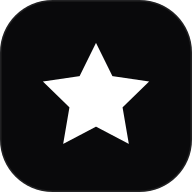
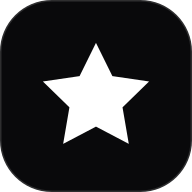
feat: refactor og-image generation and serving
Update Open Graph banner generation to use specific density and dimensions. Switch to `app.all` to ensure the banner is served correctly across multiple route patterns, and add a local file existence check for the homepage fallback.

diff --git a/server.ts b/server.ts
@@ -12993,8 +12993,9 @@ const isPlaceCard = type === 'place';
         </g>
       </svg>`;
 
-      await sharp(Buffer.from(defaultSvg))
-        .png({ quality: 100, compressionLevel: 6 })
+      await sharp(Buffer.from(defaultSvg), { density: 150 })
+        .resize(1200, 630)
+        .png({ palette: false, quality: 100, compressionLevel: 6, force: true })
         .toFile(path.join(process.cwd(), 'public', 'og-banner.png'));
       
       console.log("Successfully generated icon-only /public/og-banner.png");
@@ -13522,14 +13523,21 @@ app.get('/api/og-preview-v2', async (req, res) => {
   res.send(svg);
 });
 
-    app.get(['/api/og', '/api/og.png', '/api/og-image', '/api/og-image.png', '/og-banner.png', '/og-image.png'], async (req: any, res: any) => {
+    app.all(['/api/og', '/api/og.png', '/api/og-image', '/api/og-image.png', '/og-banner.png', '/og-image.png'], async (req: any, res: any) => {
     try {
+      const ogBannerPath = path.join(process.cwd(), 'public', 'og-banner.png');
       let type = (req.query.type as string) || "";
       if (!type) {
         if (req.query.id || req.query.reviewId) type = "video";
         else if (req.query.domain || req.query.logoUrl || req.query.website) type = "place";
         else if (req.query.avatarUrl || req.query.handle) type = "creator";
         else type = "homepage";
+      }
+
+      if (type === 'homepage' && fs.existsSync(ogBannerPath)) {
+        res.setHeader("Content-Type", "image/png");
+        res.setHeader("Cache-Control", "public, max-age=31536000, immutable");
+        return res.sendFile(ogBannerPath);
       }
 
       if (type === 'video') {
@@ -13966,8 +13974,19 @@ app.get('/api/og-preview-v2', async (req, res) => {
           </g>
         </g>
       </svg>`;
-      const fallbackBuf = await sharp(Buffer.from(defaultSvg)).png().toBuffer();
+      if (fs.existsSync(ogBannerPath)) {
+        res.setHeader("Content-Type", "image/png");
+        res.setHeader("Cache-Control", "public, max-age=31536000, immutable");
+        return res.sendFile(ogBannerPath);
+      }
+
+      const fallbackBuf = await sharp(Buffer.from(defaultSvg), { density: 150 })
+        .resize(1200, 630)
+        .png({ palette: false, quality: 100, compressionLevel: 6, force: true })
+        .toBuffer();
+
       res.setHeader("Content-Type", "image/png");
+      res.setHeader("Content-Length", fallbackBuf.length);
       res.setHeader("Cache-Control", "public, max-age=31536000, immutable");
       return res.end(fallbackBuf);
     } catch (e: any) {
@@ -14590,7 +14609,7 @@ function injectOpenGraphTags(html: string, meta: any) {
     const safeTitle = escapeHtml(meta.title);
     const safeDesc = escapeHtml(meta.description);
     const safeUrl = escapeHtml(meta.url);
-    let rawImage = meta.imageUrl || "https://yoouz.com/og-banner.png?v=5";
+    let rawImage = meta.imageUrl || "https://yoouz.com/og-banner.png?v=7";
     if (rawImage.includes("localhost") || rawImage.startsWith("/")) {
       rawImage = rawImage.replace(/^https?:\/\/[^\/]+/, "https://yoouz.com").replace(/^\//, "https://yoouz.com/");
     }
@@ -14694,7 +14713,7 @@ function injectOpenGraphTags(html: string, meta: any) {
     const publicBase = 'https://yoouz.com';
     let title = "Yoouz - Authentic 60-Second Video Reviews";
     let description = "Yoouz is the premier authentic video review platform. Real people record genuine 60-second live video testimonials with zero fake reviews.";
-    let imageUrl = `${publicBase}/og-banner.png?v=5`;
+    let imageUrl = `${publicBase}/og-banner.png?v=7`;
     let videoUrl = "";
     let embedUrl = "";
     let type = "website";

diff --git a/index.html b/index.html
@@ -56,17 +56,12 @@
     <meta property="og:title" content="Yoouz - Authentic 60-Second Video Reviews" />
     <meta property="og:description" content="Yoouz is the premier authentic video review platform. Real people record genuine 60-second live video testimonials with zero fake reviews." />
     <meta property="og:url" content="https://yoouz.com/" />
-    <meta property="og:image" content="https://yoouz.com/og-banner.png?v=5" />
-    <meta property="og:image:secure_url" content="https://yoouz.com/og-banner.png?v=5" />
+    <meta property="og:image" content="https://yoouz.com/og-banner.png?v=7" />
+    <meta property="og:image:secure_url" content="https://yoouz.com/og-banner.png?v=7" />
     <meta property="og:image:type" content="image/png" />
     <meta property="og:image:width" content="1200" />
     <meta property="og:image:height" content="630" />
     <meta property="og:image:alt" content="Yoouz - Official Icon Emblem" />
-    <meta property="og:image" content="https://yoouz.com/icon-512.png?v=5" />
-    <meta property="og:image:secure_url" content="https://yoouz.com/icon-512.png?v=5" />
-    <meta property="og:image:type" content="image/png" />
-    <meta property="og:image:width" content="512" />
-    <meta property="og:image:height" content="512" />
 
     <!-- Twitter / X Card in Dark Mode -->
     <meta name="twitter:card" content="summary_large_image" />
@@ -74,7 +69,7 @@
     <meta name="twitter:creator" content="@Yoouz" />
     <meta name="twitter:title" content="Yoouz - Authentic 60-Second Video Reviews" />
     <meta name="twitter:description" content="Yoouz is the premier authentic video review platform. Real people record genuine 60-second live video testimonials with zero fake reviews." />
-    <meta name="twitter:image" content="https://yoouz.com/og-banner.png?v=5" />
+    <meta name="twitter:image" content="https://yoouz.com/og-banner.png?v=7" />
     <meta name="twitter:image:alt" content="Yoouz - Official Icon Emblem" />
 
     <!-- Structured Data (JSON-LD) for Search Engines and AI Grounding (Google SGE, Perplexity, ChatGPT, Bing) -->
